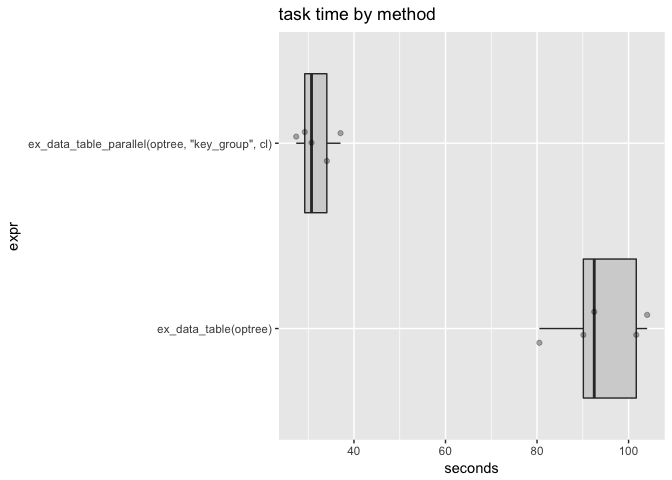
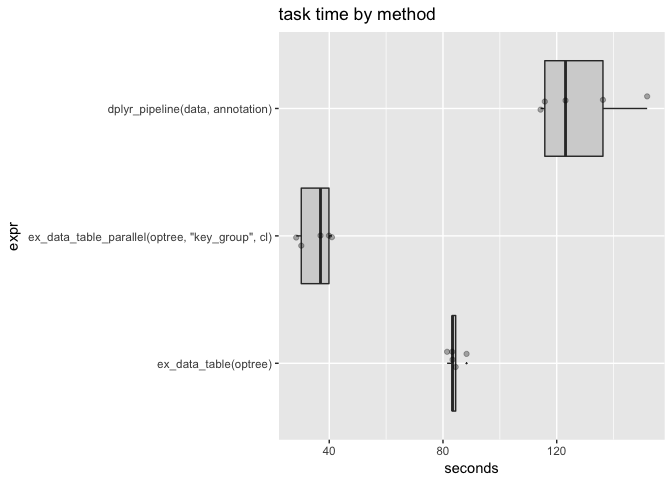
larger test

diff --git a/extras/Parallel_rqdatatable.md b/extras/Parallel_rqdatatable.md
@@ -18,7 +18,21 @@ library("rqdatatable")
 ``` r
 library("microbenchmark")
 library("WVPlots")
+library("dplyr")
+```
 
+    ## 
+    ## Attaching package: 'dplyr'
+
+    ## The following objects are masked from 'package:stats':
+    ## 
+    ##     filter, lag
+
+    ## The following objects are masked from 'package:base':
+    ## 
+    ##     intersect, setdiff, setequal, union
+
+``` r
 cl <- parallel::makeCluster(4)
 #parallel::clusterEvalQ(cl, library("rquery"))
 #parallel::clusterEvalQ(cl, library("rqdatatable"))
@@ -127,6 +141,32 @@ nrow(res2)
     ## [1] 38
 
 ``` r
+dplyr_pipeline <- function(data, annotation) {
+  data %>%
+    inner_join(annotation, by = "key") %>%
+    filter(data <= info) %>%
+    group_by(id) %>%
+    arrange(-data) %>%
+    mutate(rownum = row_number()) %>%
+    ungroup() %>%
+    filter(rownum == 1) %>%
+    arrange(id)
+}
+resd <- dplyr_pipeline(data, annotation)
+head(resd)
+```
+
+    ## # A tibble: 6 x 7
+    ##   key      id  info key_group.x  data key_group.y rownum
+    ##   <chr> <int> <dbl> <chr>       <dbl> <chr>        <int>
+    ## 1 key_1     1 0.330 20          0.225 20               1
+    ## 2 key_2     2 0.615 8           0.609 8                1
+    ## 3 key_3     3 0.293 10          0.280 10               1
+    ## 4 key_4     4 0.781 5           0.419 5                1
+    ## 5 key_5     5 0.448 14          0.271 14               1
+    ## 6 key_7     7 0.642 20          0.573 20               1
+
+``` r
 dlist <- mk_example(100, 1000)
 data <- dlist$instance_table
 annotation <- dlist$key_table
@@ -134,18 +174,21 @@ annotation <- dlist$key_table
 timings <- microbenchmark(
   ex_data_table(optree),
   ex_data_table_parallel(optree, "key_group", cl),
+  dplyr_pipeline(data, annotation),
   times = 5L)
 
 print(timings)
 ```
 
     ## Unit: seconds
-    ##                                             expr      min       lq
-    ##                            ex_data_table(optree) 80.50610 90.11854
-    ##  ex_data_table_parallel(optree, "key_group", cl) 27.37802 29.24340
-    ##      mean   median        uq       max neval
-    ##  93.77499 92.50298 101.68539 104.06193     5
-    ##  31.69469 30.72369  34.06809  37.06025     5
+    ##                                             expr       min        lq
+    ##                            ex_data_table(optree)  81.44652  83.24257
+    ##  ex_data_table_parallel(optree, "key_group", cl)  28.38191  30.15846
+    ##                 dplyr_pipeline(data, annotation) 114.32027 115.80974
+    ##       mean    median        uq       max neval
+    ##   84.16198  83.36124  84.46936  88.29024     5
+    ##   35.25878  36.92311  39.89761  40.93283     5
+    ##  128.25947 123.10017 136.26301 151.80418     5
 
 ``` r
 timings <- as.data.frame(timings)
